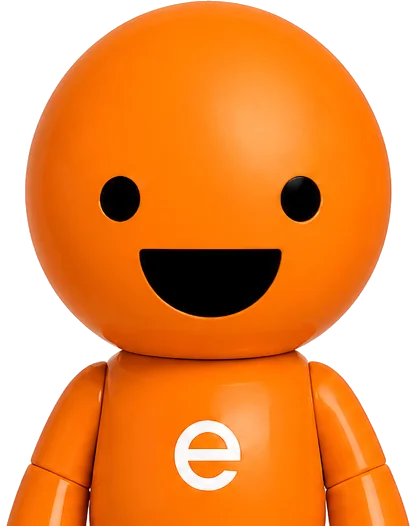
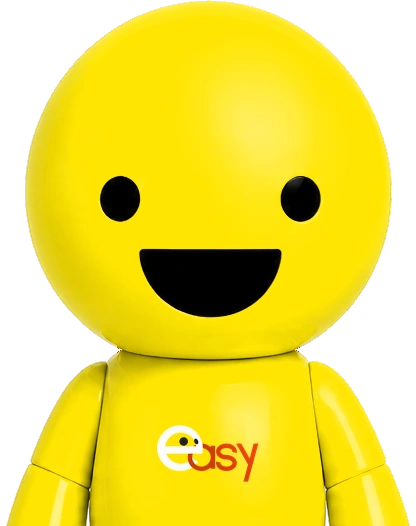
弾EV-5: 学年のフィナーレ（てがかり7つがつながる演出）＋イージーを黄色版に差し替え
- ゾーン8クリア時に、集めたてがかり7つが1年の答え（先・早）へつながる演出を追加
- イージーの立ち絵を黄色版（胸に10番ロゴ・板なし）に差し替え

Claude-Session: https://claude.ai/code/session_01WAQy6kdcGTGKnyDfKY9uHP

diff --git a/play/index.html b/play/index.html
@@ -2835,6 +2835,48 @@
      専用div(#sjOverlay)・専用CSS接頭辞(sj-)。既存の.overlayは使い回さない（先例＝氷の城 iceOverlay・ic-接頭辞）。
      見た目は発注書§4のHTML/CSSをそのまま採用（デザインし直さない）。#appの直下（position:relative）に置く
      絶対配置なので、position:absoluteのままアプリ画面いっぱいに広がる。 */
+  /* ===== 弾EV-5：学年のフィナーレ（あつめた てがかりが つながる）=====
+     専用div(#gfOverlay)・専用CSS接頭辞(gf-)。見た目は弾EV-3（立ち絵つき会話）から引き継ぐ＝デザインし直さない。
+     z-index:85＝立ち絵つき会話(#evOverlay:80)より前。賞状(.sj-overlay:60)はこれが閉じたあとに出る。
+     ★絵は1枚も足していない（立ち絵はマナの既存2種・イージーは声だけ＝姿を出さない）。 */
+  #gfOverlay{position:absolute;inset:0;display:none;z-index:85;overflow:hidden;cursor:pointer;
+    -webkit-user-select:none;user-select:none}
+  #gfOverlay.show{display:block}
+  #gfVeil{position:absolute;inset:0;background:#0a0d1c;opacity:.74;transition:opacity .9s ease}
+  #gfOverlay.dark #gfVeil{opacity:.93}
+  /* 立ち絵＝弾EV-3と同じ大きさ・同じ位置（左） */
+  #gfChara{position:absolute;left:-3vw;bottom:118px;width:46vw;max-width:196px;height:auto;
+    transition:filter .35s ease, transform .35s ease, opacity .45s ease;
+    pointer-events:none;transform-origin:bottom center;
+    filter:drop-shadow(0 6px 14px rgba(0,0,0,.55))}
+  #gfChara.hide{opacity:0;transform:scale(.9) translateY(18px)}
+  /* あつめた てがかりが 下から 積み上がる場所（新しいものが下・古いものが上へ押し上がる）
+     ★bottom:46% ＝ 立ち絵（bottom:118px・高さ約256px）より上で終わらせる。
+       2026-08-17に実物を見たら、てがかりがマナの顔に重なって読めなかった。数字は全部OKだった。 */
+  #gfClues{position:absolute;left:14px;right:14px;top:46px;bottom:46%;
+    display:flex;flex-direction:column;justify-content:flex-end;gap:5px;overflow:hidden;pointer-events:none}
+  .gf-clue{opacity:0;transform:translateY(14px);
+    transition:opacity .5s ease, transform .5s ease;
+    background:rgba(16,18,32,.72);border-left:3px solid rgba(255,255,255,.35);
+    border-radius:0 8px 8px 0;padding:5px 9px;
+    color:#e8e4da;font-size:12.5px;line-height:1.45;font-weight:700}
+  .gf-clue.in{opacity:1;transform:translateY(0)}
+  /* ★共通する言葉（「声」など）だけを光らせる＝自分で集めたものが自分でつながる瞬間 */
+  .gf-kw{transition:color .6s ease, text-shadow .6s ease}
+  #gfClues.lit .gf-kw{color:#ffd76a;text-shadow:0 0 10px rgba(255,215,106,.9);font-size:1.15em}
+  /* セリフ窓＝弾EV-3と同じ */
+  #gfBox{position:absolute;left:12px;right:12px;bottom:22px;
+    background:rgba(16,18,32,.92);border:2px solid rgba(255,255,255,.30);
+    border-radius:16px;padding:16px 18px 20px;min-height:104px;
+    box-shadow:0 8px 24px rgba(0,0,0,.5)}
+  #gfText{color:#fff;font-size:19px;line-height:1.65;font-weight:700}
+  #gfText.gf-easy{color:#ffcf9a}
+  #gfNext{position:absolute;right:14px;bottom:8px;color:#fff;opacity:.75;font-size:13px;
+    animation:evBob 1s ease-in-out infinite}   /* ★evBobは弾EV-3で定義ずみのものを使う */
+  .gf-skip{position:absolute;right:10px;top:10px;z-index:3;
+    background:rgba(0,0,0,.55);color:#fff;border:1px solid rgba(255,255,255,.35);
+    border-radius:99px;padding:6px 14px;font-size:12px;font-weight:800;font-family:inherit;cursor:pointer}
+
   /* 弾EV-4：てがかり一覧。★ちず(#worldmapOverlay)は .overlay ＝ position:fixed / z-index:200 なので、
      こちらも fixed で z-index を上に置かないと、ちずの下に隠れて見えない（2026-08-17に実物で発見）。 */
   .tg-overlay{position:fixed;inset:0;display:none;align-items:center;justify-content:center;
@@ -3426,6 +3468,17 @@
       <button class="btn btn-ghost" onclick="closeWorldMap()">とじる</button>
     </div>
   </div>
+</div>
+
+<!-- 弾EV-5：学年のフィナーレ（あつめた てがかりが つながる）。専用div・専用CSS接頭辞(gf-)。
+     置き場所は #evOverlay と同じ並び（画面全体に重なる＝カメラのtransformの影響を受けない）。
+     img に src は書かない（空srcはページ自身を読みに行くため）。JS側で立ち絵を入れる。 -->
+<div id="gfOverlay" onclick="gfTap()">
+  <div id="gfVeil"></div>
+  <img id="gfChara" class="hide" alt="">
+  <div id="gfClues"></div>
+  <div id="gfBox"><div id="gfText"></div><div id="gfNext">▼</div></div>
+  <button class="gf-skip" onclick="event.stopPropagation();gfSkip()">とばす</button>
 </div>
 
 <!-- 弾EV-4：てがかり一覧。専用div・専用CSS接頭辞(tg-)。#appの直下＝画面いっぱいに暗転する（先例=sjOverlay/nmOverlay） -->
@@ -15719,14 +15772,24 @@ function enterNextZone(){
     return;
   }
   if(gateFxLock) return;   // 第17弾§2：演出（音＋フラッシュ）が鳴り終わるまで連打による二重発火を無視
-  /* ★弾EV-4：このゾーンの「解決」（1話の終わり）がまだなら、先に流してから続きへ。
+  /* ★弾EV-4／EV-5：このゾーンの「1話の終わり」がまだなら、先に流してから続きへ。
      終わったら enterNextZone をもう一度呼ぶ＝2回目は outSeen が立っているので素通りし、
-     いままでどおり しゅうりょうしき → ゲート通過 と進む（ゾーン8＝解決 → 式 → ゾーン9 の順になる）。 */
-  const ztOut=ZONE_TALK[fieldZone];
-  if(ztOut && ztOut.out && !outSeen[fieldZone] && !ztActive){
-    outSeen[fieldZone]=true; save();
-    startZoneOut(fieldZone, enterNextZone);
-    return;
+     いままでどおり しゅうりょうしき → ゲート通過 と進む
+     （ゾーン8＝★フィナーレ → しゅうりょうしき＋賞状 → ゾーン9 の順になる）。 */
+  if(!outSeen[fieldZone] && !ztActive && !gfActive){
+    // 弾EV-5：学年の最後のゾーンは、ふつうの「解決」ではなくフィナーレを流す
+    const gf=gradeFinaleOfZone(fieldZone);
+    if(gf){
+      outSeen[fieldZone]=true; save();
+      startGradeFinale(gf.grade, enterNextZone);
+      return;
+    }
+    const ztOut=ZONE_TALK[fieldZone];
+    if(ztOut && ztOut.out){
+      outSeen[fieldZone]=true; save();
+      startZoneOut(fieldZone, enterNextZone);
+      return;
+    }
   }
   // 弾EV-1：いま出ようとしているゾーンが学年の最後（GRADE_ZONESの.to）で、まだしゅうりょうしきを見ていなければ、
   //   ここで足止めしてしゅうりょうしき→賞状を先に見せる。閉じたら続き（本来のゲート通過処理）を実行する。
@@ -16033,6 +16096,9 @@ const ZONE_TALK = {
       { snd:null, text:'……見て。だれかが、よみがなを 書き足していった あとが ある。' },
       { snd:null, text:'えきの 人が いってた。「大きな こえで、なんども おしえてた 人が いた」って。' }
     ],
+    /* ★ここだけ「こえ」を ひらがな にしてある（意図的）。
+       弾EV-5のフィナーレで光るのは漢字の「声」だけ＝③④⑦の3つ（イージーの線）。
+       この⑥はマロース先生の線なので、光らせない。漢字にするとフィナーレで一緒に光ってしまう。 */
     clue:'大きな こえで、なんども おしえてた 人が いた'
   },
   7: {
@@ -16049,18 +16115,13 @@ const ZONE_TALK = {
     clue:'地図も 声が よんでくれる'
   },
   /* ★ゾーン8は1年の答え。てがかりには数えないので clue を持たせない。
-     ★「その声は だれ？」の答えはここでは出さない（＝黒の組織のまま残す）。 */
+     ★★「解決」は ふつうの会話ではなく **弾EV-5のフィナーレ**（GRADE_FINALE）が担当する。
+        だから out を持たせない（2026-08-17 準也さんのご指摘「学年の終わりなのにショボい」への対応）。 */
   8: {
     title:'いちばん さいしょの まち',
     in:[
       { snd:null, text:'この しろから、この まちは はじまったの。トウキョウで いちばん 古い ばしょ。' },
       { snd:null, text:'……ここで、ぜんぶ つながる かもしれない。' }
-    ],
-    out:[
-      { snd:null, text:'みんな おなじことを 言ってた。「声が よんでくれる」って。' },
-      { snd:null, text:'トウキョウは、その声を いちばん「先」に、いちばん「早」く つかいはじめた まち。' },
-      { snd:null, text:'いちばん はじめの まちが、いちばん先に 字を よまなく なって——いちばん先に、あばれはじめたの。' },
-      { snd:null, text:'……でも、その声は だれ？' }
     ]
   }
 };
@@ -16070,6 +16131,170 @@ const ZONE_TALK = {
 const CLUE_SETS = {
   1: { from:1, to:7, title:'トウキョウの てがかり' }
 };
+
+/* ===== 弾EV-5：学年のフィナーレ（あつめた てがかりが つながる）=====
+   ★準也さんのご指摘（2026-08-17）＝「ゾーン8は てがかりも集まって学年の終わりのイベントなのにショボい。
+     最低限 人物を並べて会話するイベント、もしくは普通にイベントシーンを作るレベルじゃないとだめ」。
+   → 学年の最後のゾーンをクリアした瞬間に、あつめた てがかりが1つずつ積み上がり、
+     共通する言葉（1年なら「声」）だけが光って、学年の謎が解ける演出を流す。そのあと しゅうりょうしき＋賞状。
+   ★絵は1枚も足していない（立ち絵＝マナの既存2種／イージーは姿を出さず声だけ＝オレンジの字）。
+   ★6学年ぶん動く汎用。ここに1行足せば2年以降も同じ演出になる。
+   正本＝設計書\09_計画と方針\【計画】1話完結の型と1年の8話_20260817.md */
+const GRADE_FINALE = {
+  1: {
+    zone: 8,
+    keyword: '声',                                     // ★てがかりの中でここだけ光らせる言葉
+    intro : 'みんな、おなじことを 言ってた。',
+    found : '……ぜんぶ、「声」の はなし。',
+    none  : '……この まちの 人たちの はなしを、思い出してみて。',   // てがかりが0のとき（古いセーブ）
+    lines : [
+      'トウキョウは、その声を いちばん「先」に、いちばん「早」く つかいはじめた まち。',
+      'いちばん はじめの まちが、いちばん先に 字を よまなく なって——',
+      'いちばん先に、あばれはじめたの。'
+    ],
+    easy  : '……だいじょうぶ。',                        // 姿は出さない。声だけ（オレンジの字）
+    last  : '……でも、その声は だれ？',                  // マナ（きり顔）。答えはここでは出さない
+    banner: 'だい8わ「いちばん さいしょの まち」 おしまい'
+  }
+};
+
+const GF_CLUE_MS   = 1150;   // てがかりが1つ出てから次が出るまで
+const GF_LIT_MS    = 1500;   // 全部出そろってから「声」が光るまで
+const GF_AFTER_MS  = 1600;   // 光ってから次のセリフへ
+
+let gfActive=false, gfStep=-1, gfSteps=null, gfDone=null, gfSeq=0, gfTimer=null, gfTapOK=false;
+
+function gradeFinaleOfZone(zone){
+  for(const g in GRADE_FINALE){ if(GRADE_FINALE[g].zone===zone) return {grade:(g|0), def:GRADE_FINALE[g]}; }
+  return null;
+}
+/* その学年で いま持っている てがかり（取った順） */
+function gfCluesOf(grade){
+  const set=CLUE_SETS[grade]; if(!set) return [];
+  const out=[];
+  for(let z=set.from; z<=set.to; z++){
+    const zt=ZONE_TALK[z];
+    if(outSeen[z] && zt && zt.clue) out.push(zt.clue);
+  }
+  return out;
+}
+/* 光らせる言葉を <span> でくるむ。★中身は内部の固定文字列だけ（外から来る文字は入らない） */
+function gfWrapKeyword(text, kw){
+  if(!kw) return text;
+  return text.split(kw).join('<span class="gf-kw">'+kw+'</span>');
+}
+
+function startGradeFinale(grade, onDone){
+  const def=GRADE_FINALE[grade];
+  if(!def){ if(onDone) onDone(); return; }
+  if(gfActive) return;
+  gfActive=true; gfDone=onDone||null; gfSeq=fieldSeq; gfStep=-1; gfTapOK=false;
+  if(isAutoZone(fieldZone)) stopAutoExplore();
+  heroLock=true;                                  // ★stopAutoExplore の後に立てる
+  const clues=gfCluesOf(grade);
+
+  // 台本を組み立てる（clues が0本なら積み上げの場面を飛ばす＝古いセーブでも成立させる）
+  gfSteps=[];
+  gfSteps.push({k:'say', who:'mana', text:def.intro});
+  if(clues.length){
+    gfSteps.push({k:'clues', list:clues, kw:def.keyword});
+    gfSteps.push({k:'say', who:'mana', text:def.found});
+  }else{
+    gfSteps.push({k:'say', who:'mana', text:def.none});
+  }
+  def.lines.forEach(t=>gfSteps.push({k:'say', who:'mana', text:t}));
+  gfSteps.push({k:'say', who:'easy', text:def.easy});
+  gfSteps.push({k:'say', who:'manaK', text:def.last});
+  gfSteps.push({k:'end', banner:def.banner});
+
+  // 画面をまっさらにしてから出す
+  const ov=$('gfOverlay');
+  $('gfClues').innerHTML=''; $('gfClues').classList.remove('lit');
+  $('gfText').textContent=''; $('gfText').className='';
+  const ch=$('gfChara'); ch.removeAttribute('src'); ch.className='hide';
+  ov.classList.remove('dark'); ov.classList.add('show');
+  for(const k in EV_CHARA){ const im=new Image(); im.src=EV_CHARA[k].img; }   // 切り替えでちらつかせない
+  gfAdvance();
+}
+
+function gfAdvance(){
+  if(!gfActive) return;
+  if(gfSeq!==fieldSeq){ gfClose(false); return; }   // ワープ等で離脱したら黙って畳む
+  if(gfTimer){ clearTimeout(gfTimer); gfTimer=null; }
+  gfStep++;
+  const s=gfSteps[gfStep];
+  if(!s){ gfClose(true); return; }
+
+  if(s.k==='end'){ gfClose(true, s.banner); return; }
+
+  if(s.k==='clues'){
+    gfTapOK=false; $('gfNext').style.visibility='hidden';
+    // ★積み上げの最中は 立ち絵を引っこめて 暗くする＝てがかりに集中させる（2026-08-17に実物を見て追加）
+    $('gfChara').className='hide';
+    $('gfOverlay').classList.add('dark');
+    $('gfText').textContent='';
+    const box=$('gfClues');
+    let i=0;
+    const put=()=>{
+      if(gfSeq!==fieldSeq){ gfClose(false); return; }
+      if(i<s.list.length){
+        const d=document.createElement('div');
+        d.className='gf-clue';
+        d.innerHTML='「'+gfWrapKeyword(s.list[i], s.kw)+'」';   /* 内部の固定文字列のみ */
+        box.appendChild(d);
+        requestAnimationFrame(()=>d.classList.add('in'));
+        i++;
+        gfTimer=setTimeout(put, GF_CLUE_MS);
+      }else{
+        gfTimer=setTimeout(()=>{
+          if(gfSeq!==fieldSeq){ gfClose(false); return; }
+          box.classList.add('lit');                      // ★共通する言葉が光る
+          try{ ensureAudio(); snd('levelup'); }catch(e){}
+          gfTimer=setTimeout(gfAdvance, GF_AFTER_MS);
+        }, GF_LIT_MS);
+      }
+    };
+    put();
+    return;
+  }
+
+  // セリフ
+  const t=$('gfText'), ch=$('gfChara'), ov=$('gfOverlay');
+  if(s.who==='easy'){
+    ch.className='hide';                    // ★イージーは姿を出さない。声だけ
+    ov.classList.add('dark');
+    t.className='gf-easy';
+  }else{
+    const c=EV_CHARA[s.who] || EV_CHARA.mana;
+    if(ch.getAttribute('src')!==c.img) ch.setAttribute('src', c.img);
+    ch.className='';
+    ov.classList.remove('dark');
+    t.className='';
+  }
+  t.textContent=s.text;
+  gfTapOK=true; $('gfNext').style.visibility='';
+}
+
+function gfTap(){ if(gfActive && gfTapOK) gfAdvance(); }
+function gfSkip(){
+  if(!gfActive) return;
+  if(gfTimer){ clearTimeout(gfTimer); gfTimer=null; }
+  const last=gfSteps[gfSteps.length-1];
+  gfClose(true, last && last.banner);
+}
+function gfClose(runDone, banner){
+  if(gfTimer){ clearTimeout(gfTimer); gfTimer=null; }
+  gfActive=false; gfTapOK=false;
+  $('gfOverlay').classList.remove('show','dark');
+  const cb=gfDone; gfDone=null; gfSteps=null; gfStep=-1;
+  if(gfSeq!==fieldSeq || !runDone){ heroLock=false; return; }
+  if(banner) showFieldBanner(banner);
+  setTimeout(()=>{
+    if(gfSeq!==fieldSeq) return;
+    heroLock=false;
+    if(cb) cb();
+  }, banner?2400:200);
+}
 
 const EV_BANNER_WAIT_MS=2600;   // ゾーン紹介バナー（2.2秒）が消えるのを待ってから始める
 let evActive=false;             // イベント会話を表示中か
@@ -16994,6 +17219,18 @@ function renderWorldMap(regionOverride){
   wmPlayIntroZoom(scale, centerCoord.x, centerCoord.y);
 }
 function warpZone(z){
+  /* ★弾EV-5（2026-08-17）：会話・演出の最中にワープしたら、まず畳む。
+     これをしないと heroLock が立ったまま残り、行った先で主人公が動けなくなる
+     （2026-08-09の「オート巡回中に手持ちを開くとフリーズ」とまったく同じ型）。
+     ★必ず fieldZone / fieldSeq を変える前に呼ぶこと（それぞれの畳む処理が fieldSeq を見て判定するため）。
+     ★弾EV-3（立ち絵つき会話）にも同じ穴があったので、ここでまとめて塞いでいる。 */
+  if(typeof gfActive!=='undefined' && gfActive) gfClose(false);
+  if(typeof evActive!=='undefined' && evActive) evFinish();
+  if(typeof ztActive!=='undefined' && ztActive){
+    ztActive=false;
+    if(typeof hideHakaseTalkWindow==='function') hideHakaseTalkWindow();
+    heroLock=false;
+  }
   fieldZone=z;
   const s=zoneStartOf(z); fieldHx=s.x; fieldHy=s.y;
   fieldPos={zone:z,x:fieldHx,y:fieldHy}; save();
